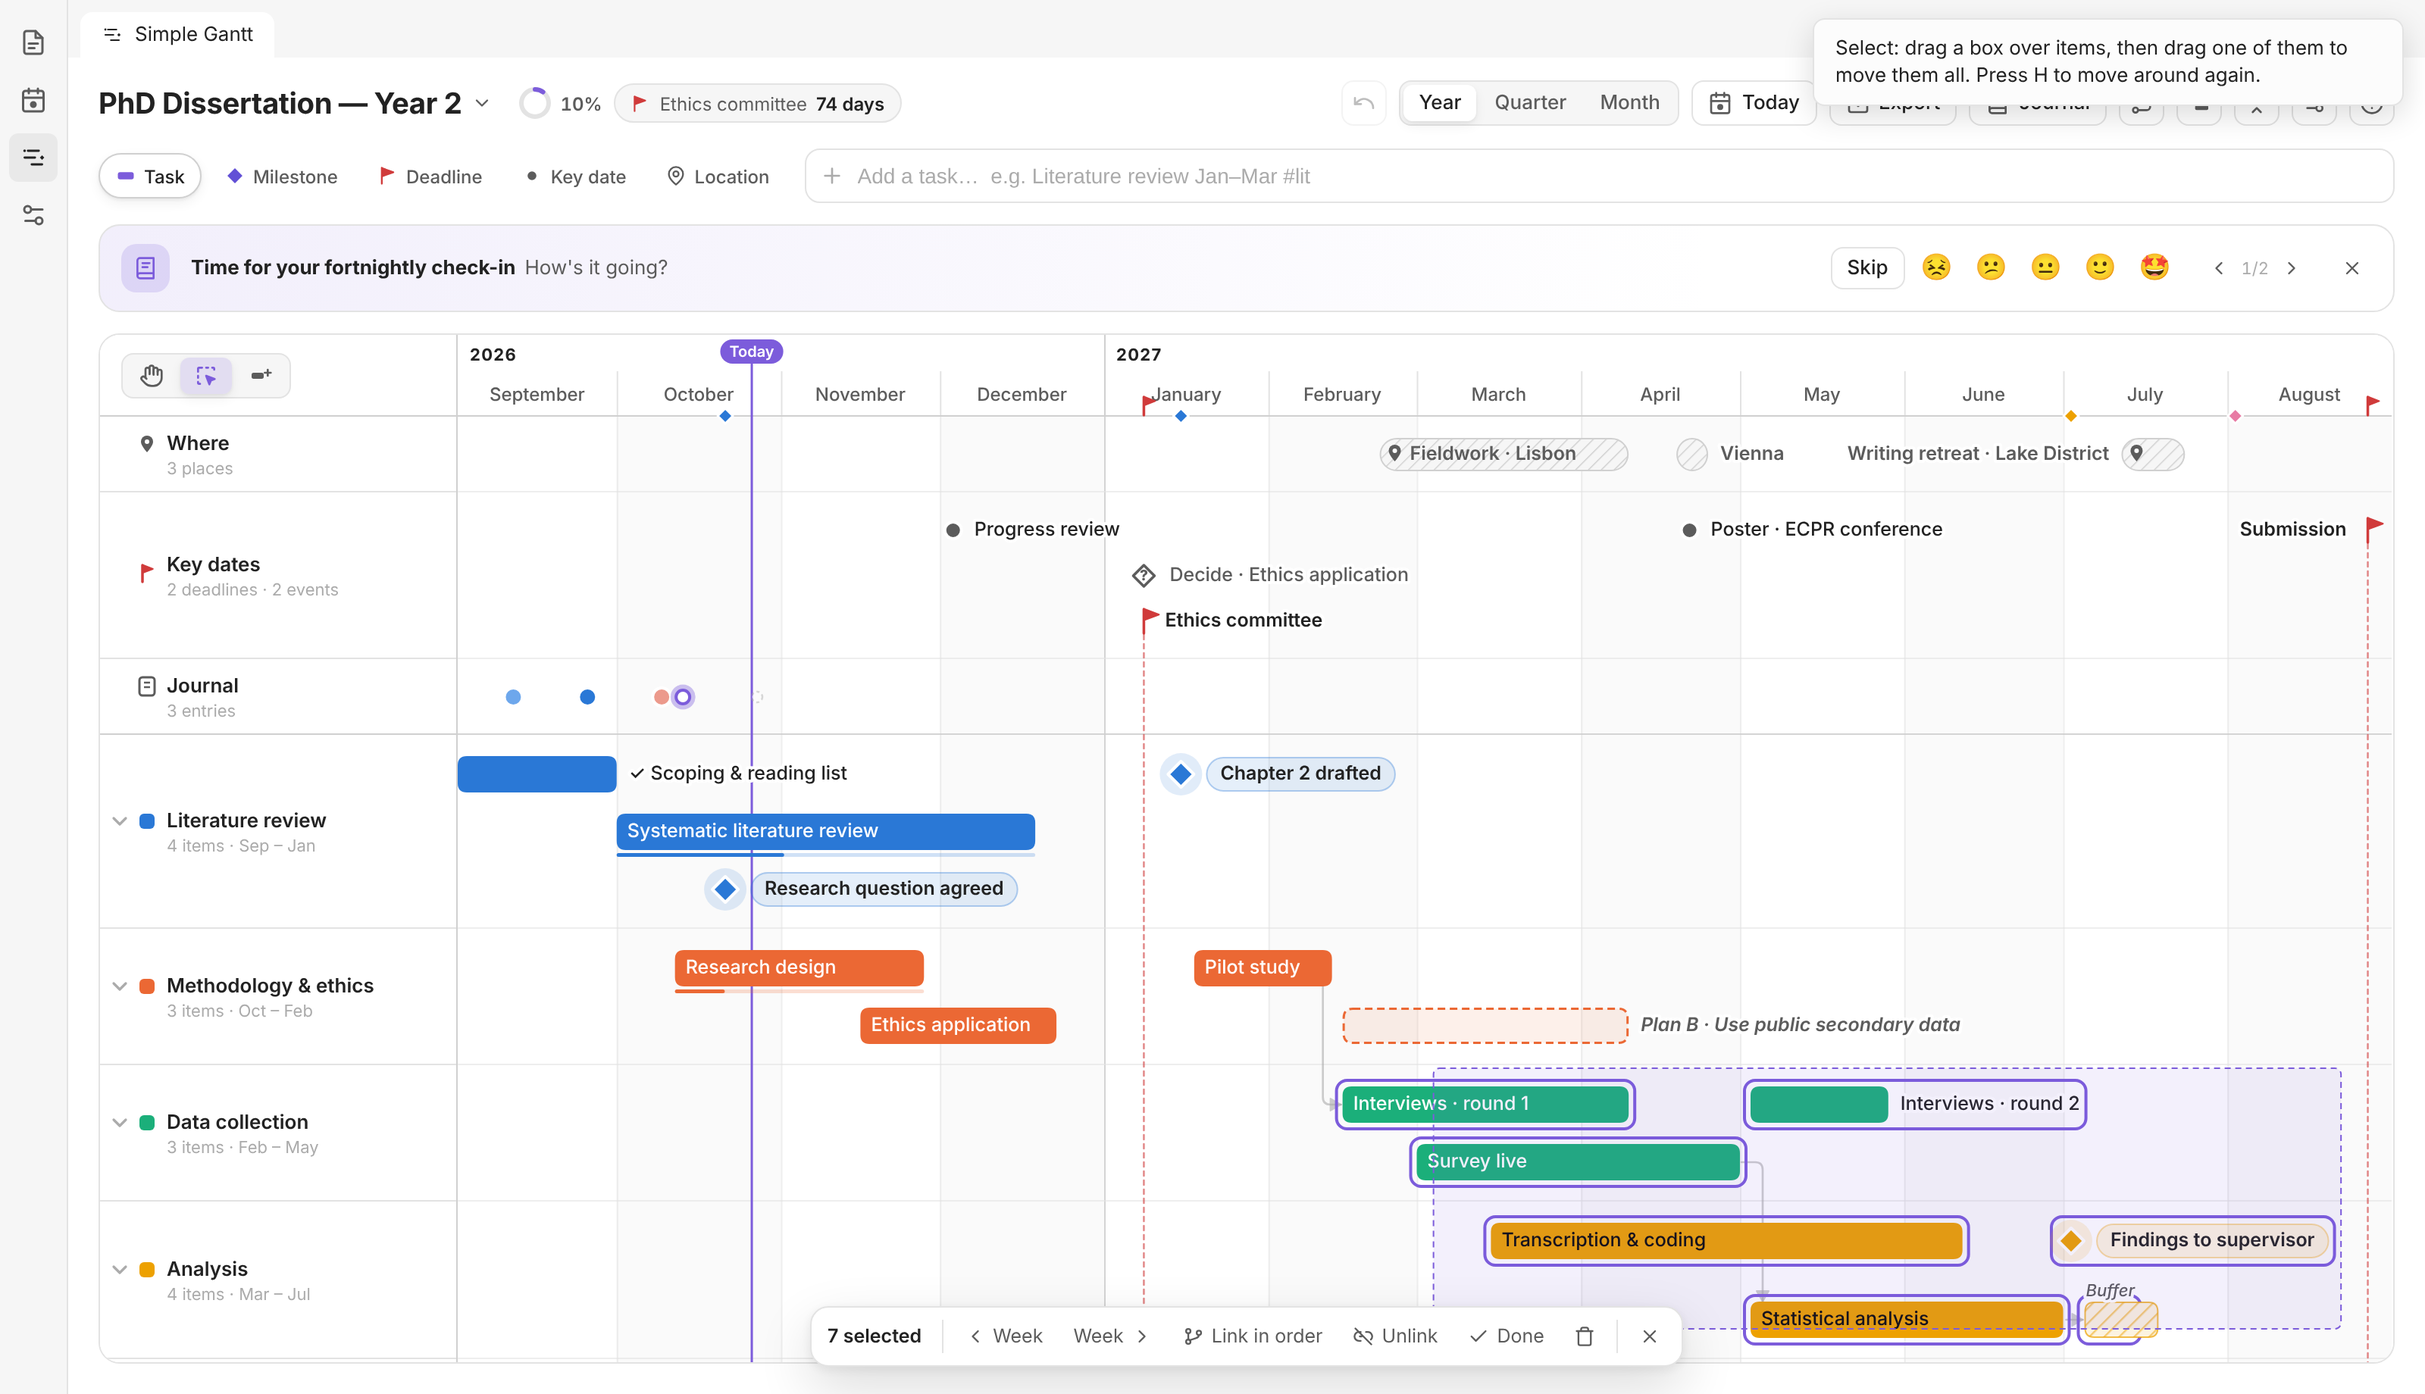
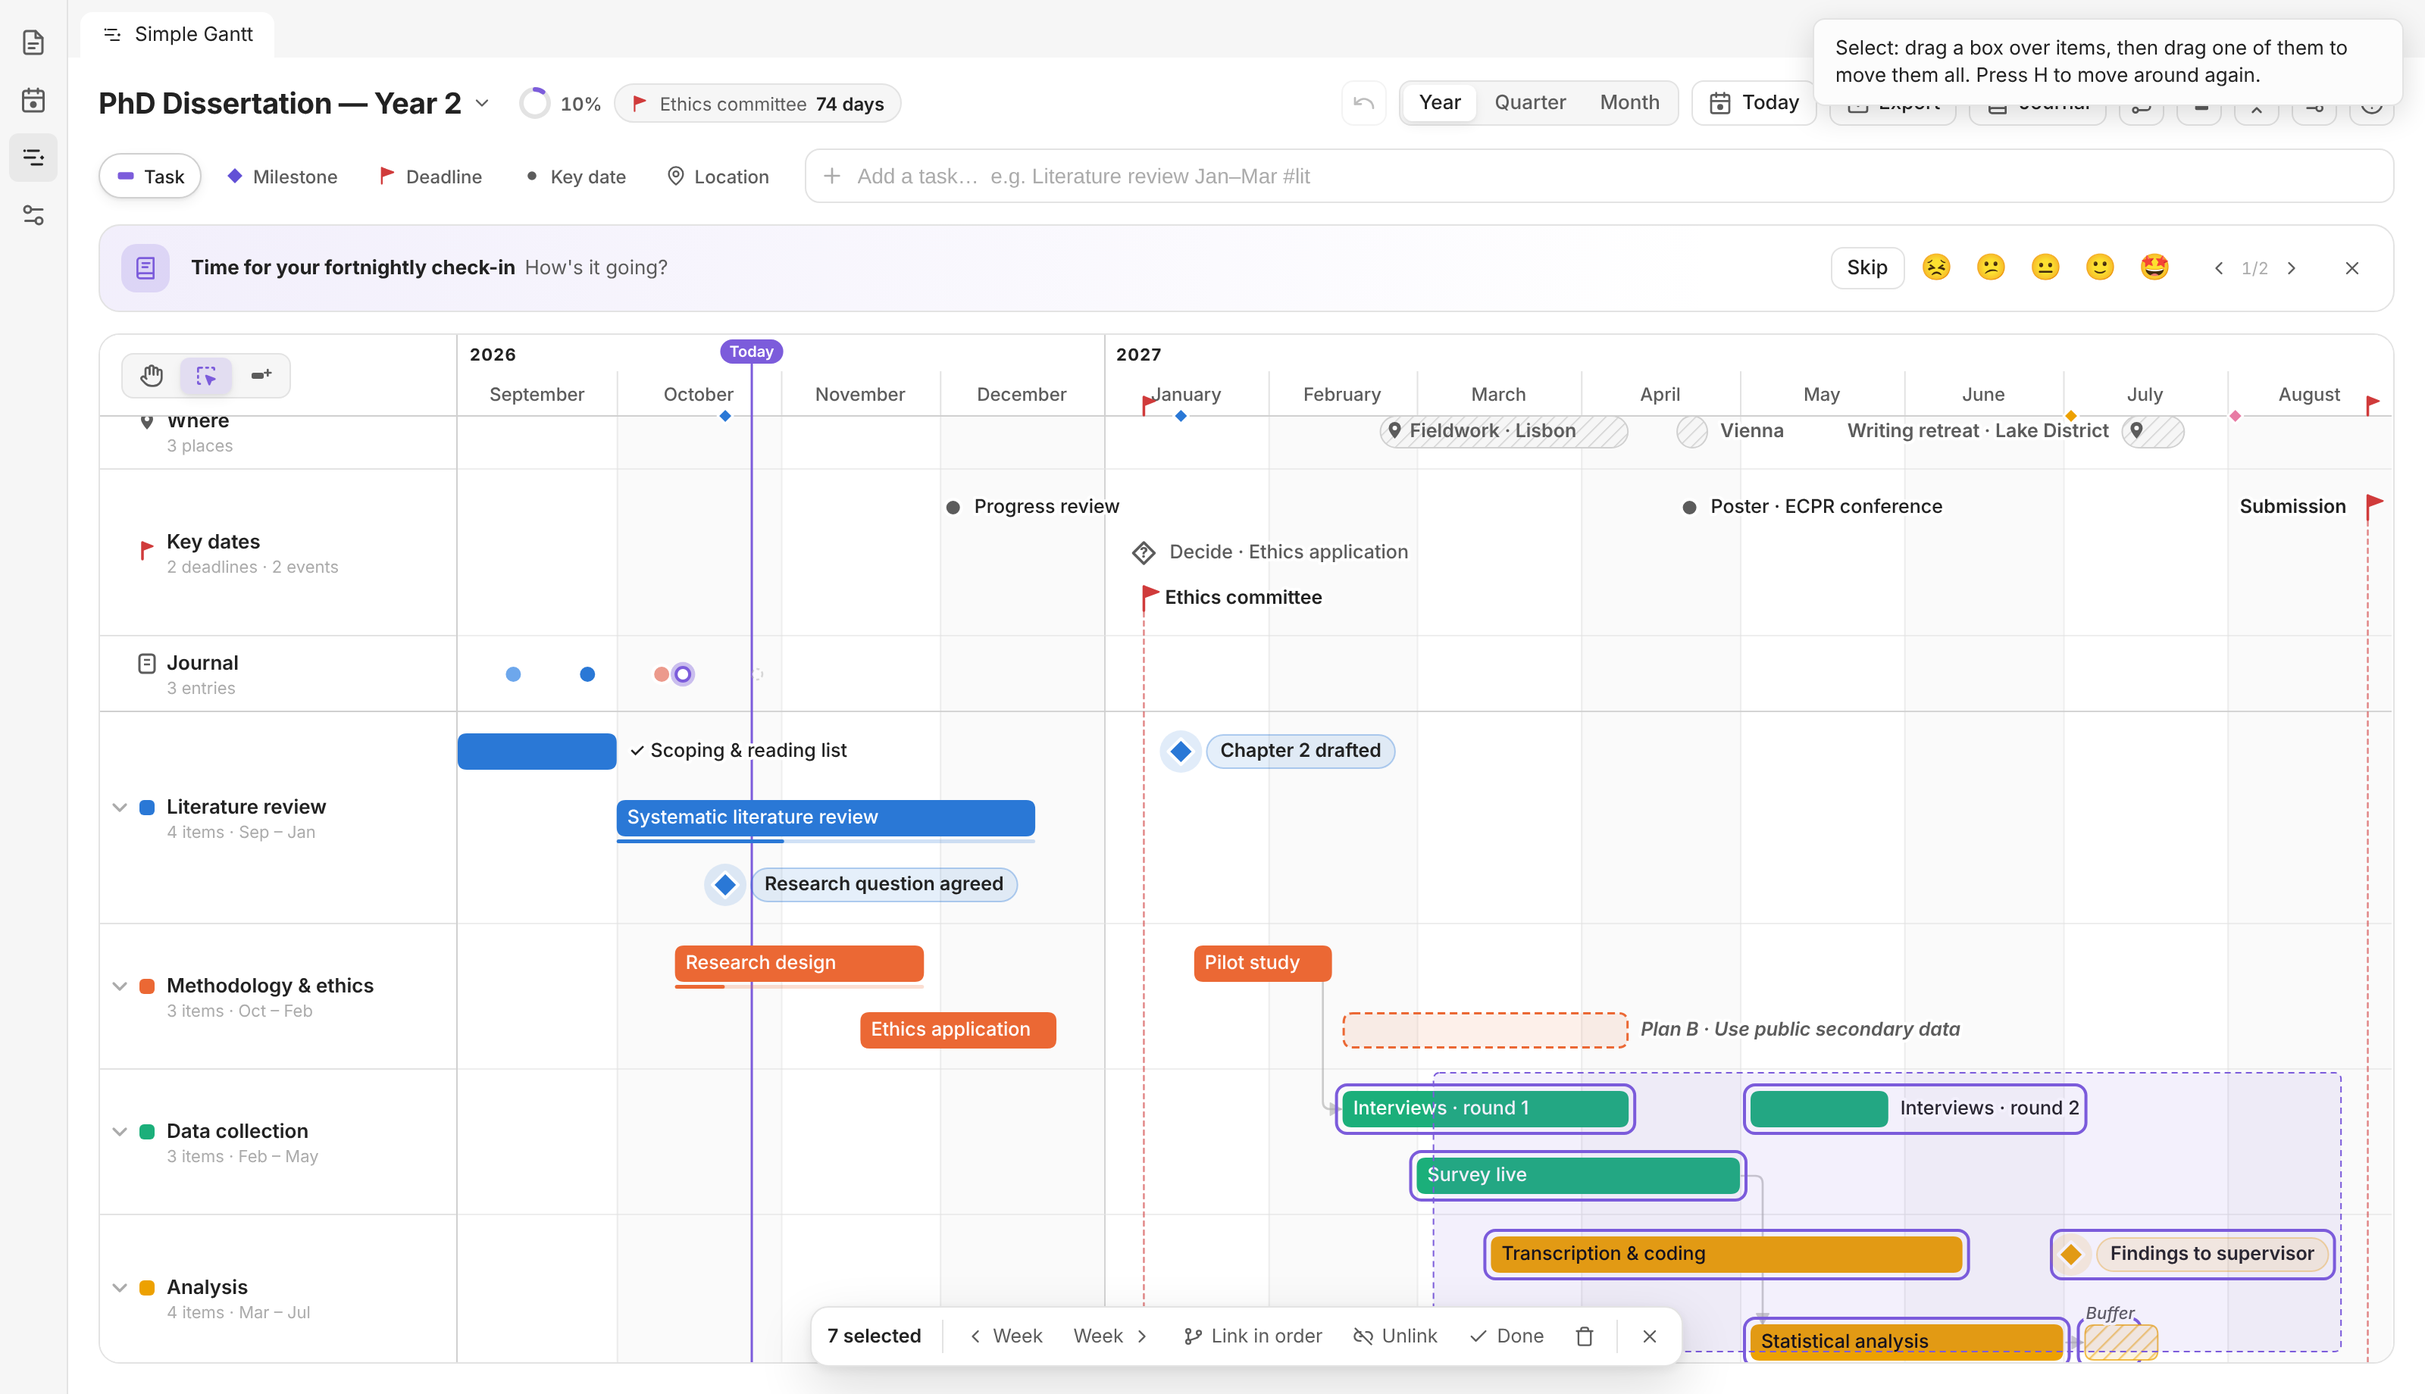
0.6.12: Roomier rows, task dates and a Today line on paper
- Paper: the rows are spaced as generously as the sheet allows (scaling the chart down at most a
  little), so the step from a task to its milestone and every arrow is easy to follow
- On screen: a little more room between rows too
- Paper: each task's dates follow its name in small grey text, buffer captions say when they are,
  and a Today line shows where the plan stands
- The year label in the date header steps aside for the Today pill

diff --git a/src/core/layout.ts b/src/core/layout.ts
@@ -8,7 +8,7 @@ export const G = {
 	yearRowH: 24,
 	monthRowH: 30,
 	weekRowH: 22,
-	rowPitch: 38,
+	rowPitch: 44,
 	barH: 24,
 	stripPitch: 30,
 	stripH: 22,
@@ -26,7 +26,7 @@ export const COMPACT: Geometry = {
 	yearRowH: 22,
 	monthRowH: 26,
 	weekRowH: 20,
-	rowPitch: 28,
+	rowPitch: 32,
 	barH: 20,
 	stripPitch: 24,
 	stripH: 18,
@@ -52,6 +52,17 @@ export const PRINT_GEOMETRY: Geometry = {
 	packGap: 8,
 	fontSize: 11.5,
 };
+
+/** Space between a label and its grey note. */
+export const NOTE_GAP = 6;
+
+/** "10 Nov – 18 Dec", "3–14 May": dates without the year (the date header shows it). */
+export function shortRange(s: number, e: number): string {
+	if (s === e) return formatDay(s, false);
+	const a = formatDay(s, false), b = formatDay(e, false);
+	const [ad, am] = a.split(" "), [bd, bm] = b.split(" ");
+	return am === bm ? `${ad}–${bd} ${bm}` : `${a} – ${b}`;
+}
 
 /** Horizontal padding inside a milestone's label badge. */
 export const MILESTONE_BADGE_PAD = 9;
@@ -125,6 +136,8 @@ export interface Placed {
 	labelX: number;
 	labelInside: boolean;
 	labelAnchor: "start" | "end";
+	/** Extra detail after the label in small grey text (on paper: a task's dates). Included in labelW. */
+	note?: string;
 	/** A buffer drawn on its task's row: the task's id. Its label sits above it. */
 	attachedTo?: string;
 	/** Ends that join another bar (a buffer and its task) are drawn square. */
@@ -319,8 +332,12 @@ export function computeLayout(project: Project, opts: LayoutOptions): Layout {
 			const label = journal || (flat && mark.kind !== "summary") ? "" : (done ? "✓ " : "") + (item.title || "Untitled") + (dated ? ` · ${formatDay(s, false)}` : "");
 			const badge = item.type === "milestone" && !!label && !print;
 			const weight = item.type === "deadline" || item.type === "location" || badge ? 600 : 500;
+			// On paper a task's dates follow its name in small grey text (there's no hovering on paper).
+			const note = print && label && mark.kind === "item" && item.type === "task" && !item.buffer ? shortRange(s, e) : "";
 			// Milestone labels sit in a tinted badge: reserve its padding.
-			const labelW = label ? opts.measure(label, weight, g.fontSize) + (badge ? MILESTONE_BADGE_PAD * 2 : 0) : 0;
+			const labelW = label
+				? opts.measure(label, weight, g.fontSize) + (badge ? MILESTONE_BADGE_PAD * 2 : 0) + (note ? NOTE_GAP + opts.measure(note, 400, g.fontSize - 1.5) : 0)
+				: 0;
 			let x0: number, x1: number, labelX: number, labelInside = false, labelAnchor: "start" | "end" = "start";
 			if (item.type === "task" || item.type === "location") {
 				x0 = xOf(s);
@@ -343,7 +360,7 @@ export function computeLayout(project: Project, opts: LayoutOptions): Layout {
 			}
 			const from = labelInside ? x0 : Math.min(x0, labelAnchor === "end" ? labelX - labelW : x0);
 			const to = labelInside ? x1 : Math.max(x1, labelAnchor === "start" ? labelX + labelW : x1);
-			return { mark, item, s, e, label, labelW, x0, x1, labelX, labelInside, labelAnchor, from, to };
+			return { mark, item, s, e, label, note, labelW, x0, x1, labelX, labelInside, labelAnchor, from, to };
 		});
 		// Buffer time sits on the row of the task it belongs to (one it overlaps, or follows within a week),
 		// joined to the bar like an extension of it, with its name above. A Plan B that runs past the end of
@@ -373,6 +390,8 @@ export function computeLayout(project: Project, opts: LayoutOptions): Layout {
 			const labelSize = g.fontSize - 1.5;
 			for (const [i, j] of hostOf) {
 				const b = pre[i], t = pre[j];
+				// On paper a buffer's caption says when it is.
+				if (print && b.label && b.mark.kind === "item") b.label = `${b.label} · ${shortRange(b.s, b.e)}`;
 				b.labelW = b.label ? opts.measure(b.label, 500, labelSize) : 0;
 				b.labelInside = false;
 				// Over the part that shows: a Plan B under its task only shows past the task's end.
@@ -463,6 +482,7 @@ export function computeLayout(project: Project, opts: LayoutOptions): Layout {
 				cy: contentTop + rowTop[rows[i]] + markH / 2,
 				color: group.phase?.color ?? (p.item.type === "location" ? null : phaseColor(p.item.phase ?? parent?.phase)),
 				label: p.label,
+				note: p.note || undefined,
 				labelW: p.labelW,
 				labelX: p.labelX,
 				labelInside: p.labelInside,

diff --git a/src/core/print.ts b/src/core/print.ts
@@ -1,5 +1,5 @@
 import { formatDay, toDay } from "./dates";
-import { COMPACT, Lane, Layout, PRINT_GEOMETRY, computeLayout } from "./layout";
+import { COMPACT, Geometry, Lane, Layout, PRINT_GEOMETRY, computeLayout } from "./layout";
 import { NS, PaintOptions, formatPeriod, makeMeasure, nest, paintBody, paintHeader, paintLabels, svgEl, text } from "./render";
 import { PRINT_THEME, Theme } from "./theme";
 import type { Project } from "./types";
@@ -30,25 +30,32 @@ export function renderPrintPages(project: Project, opts: PrintOptions = {}): SVG
 	const title1 = 50, titleN = 26;
 	const compare = !!(opts.compare && project.baseline);
 	const room = (titleH: number, headerH: number) => H - 2 * M - titleH - headerH;
-	// Roomier rows when the plan fits that way; tight print rows otherwise.
+	// Rows as roomy as the sheet allows, so the step from a bar to the next one (and its arrow) is easy to follow.
 	let layout = computeLayout(project, { pxPerDay: 1, showEmptyLanes: false, measure, density: "print", print: true });
 	const days = layout.viewEnd - layout.viewStart + 1;
-	// Slim bars with room between the rows, so the arrows between steps are easy to follow.
-	for (const geometry of [{ ...COMPACT, barH: 18, stripH: 16 }, PRINT_GEOMETRY]) {
-		layout = computeLayout(project, { pxPerDay: timelineW / days, showEmptyLanes: false, measure, geometry, print: true });
-		if (layout.bodyH <= room(title1, layout.headerH)) break;
+	const sized = (geometry: Geometry) => computeLayout(project, { pxPerDay: timelineW / days, showEmptyLanes: false, measure, geometry, print: true });
+	const base: Geometry = { ...COMPACT, barH: 17, stripH: 16, stripPitch: 24, lanePad: 6, minLaneH: 40, labelGap: 7, packGap: 10 };
+	// The chart may be scaled down a little (text stays readable) to keep the rows roomy.
+	const MIN_SCALE = 0.9;
+	const chartRoom = H - 2 * M - title1;
+	let fits = false;
+	for (let rowPitch = 48; rowPitch >= 30 && !fits; rowPitch -= 1) {
+		layout = sized({ ...base, rowPitch });
+		fits = (layout.headerH + layout.bodyH) * MIN_SCALE <= chartRoom;
 	}
-	// A plan that fits with room to spare gets airier rows, so the chart fills the sheet instead of leaving it half empty.
+	if (!fits) layout = sized(PRINT_GEOMETRY);
+	// A plan that fits with room to spare gets more padding around each phase, so the chart fills the sheet.
 	const spare = room(title1, layout.headerH) / layout.bodyH;
-	if (spare > 1.04) {
-		const f = Math.min(1.5, spare * 0.99);
+	if (fits && spare > 1.04) {
 		const g = layout.g;
-		const geometry = { ...g, rowPitch: g.rowPitch * f, stripPitch: g.stripPitch * f, lanePad: g.lanePad * f, minLaneH: g.minLaneH * f };
-		layout = computeLayout(project, { pxPerDay: timelineW / days, showEmptyLanes: false, measure, geometry, print: true });
+		const f = Math.min(2.5, 1 + (spare - 1) * (layout.bodyH / layout.lanes.reduce((n, l) => n + 2 * g.lanePad, 1)));
+		const roomier = sized({ ...g, lanePad: g.lanePad * f, minLaneH: g.minLaneH * Math.min(f, 1.4) });
+		if (roomier.bodyH <= room(title1, layout.headerH)) layout = roomier;
 	}
-	const paint: PaintOptions = { theme, measure, interactive: false, print: true, today: null, plan: compare ? project.baseline : null };
+	// The Today line shows where the plan stands on the day it's printed.
+	const paint: PaintOptions = { theme, measure, interactive: false, print: true, today: opts.today ?? null, plan: compare ? project.baseline : null };
 	// A little too tall still fits on one sheet, slightly smaller; only much longer plans continue on a second page.
-	const SHRINK = 0.8;
+	const SHRINK = 0.85;
 
 	// Split the rows into pages: the deadlines (Key dates) row on every page, then as many lanes as fit.
 	const pages: Lane[][] = [];

diff --git a/src/core/render.ts b/src/core/render.ts
@@ -1,5 +1,5 @@
 import { MONTHS_LONG, MONTHS_SHORT, dayFromYmd, formatDay, monthEnd, toDay, weekday, ymd } from "./dates";
-import { Lane, Layout, MILESTONE_BADGE_PAD, Measure, Placed, computeLayout } from "./layout";
+import { Lane, Layout, MILESTONE_BADGE_PAD, Measure, NOTE_GAP, Placed, computeLayout } from "./layout";
 import { PRINT_THEME, Theme, inkOnFill } from "./theme";
 import { earliestAfter } from "./links";
 import { Mood, Project, isDone, isRangeType } from "./types";
@@ -123,6 +123,9 @@ export function paintHeader(layout: Layout, o: PaintOptions): SVGSVGElement {
 	// Year segments; the label sticks to the left edge of the visible part of its year.
 	const [y0] = ymd(layout.viewStart);
 	const [y1] = ymd(layout.viewEnd);
+	// Where the Today pill sits, so a year label can step aside for it.
+	const todayX = o.today != null && o.today >= layout.viewStart && o.today <= layout.viewEnd ? layout.xOf(o.today) + layout.pxPerDay / 2 : null;
+	const pillW = o.measure("Today", 600, 10) + 12;
 	for (let year = y0; year <= y1; year++) {
 		const from = Math.max(layout.viewStart, dayFromYmd(year, 0, 1));
 		const to = Math.min(layout.viewEnd + 1, dayFromYmd(year + 1, 0, 1));
@@ -130,8 +133,12 @@ export function paintHeader(layout: Layout, o: PaintOptions): SVGSVGElement {
 		const xEnd = layout.xOf(to);
 		if (year !== y0) svgEl("line", { x1: x + 0.5, x2: x + 0.5, y1: 0, y2: layout.headerH, stroke: theme.axis }, svg);
 		const tw = o.measure(String(year), 700, 11) + 4;
-		const lx = Math.min(Math.max(x, v0) + 8, xEnd - tw - 8);
-		text(svg, Math.max(x + 8, lx), layout.g.yearRowH / 2 + 1, String(year), {
+		let lx = Math.max(x + 8, Math.min(Math.max(x, v0) + 8, xEnd - tw - 8));
+		if (todayX !== null && lx < todayX + pillW / 2 + 4 && lx + tw > todayX - pillW / 2 - 4) {
+			const after = todayX + pillW / 2 + 6;
+			if (after + tw < xEnd - 4) lx = after;
+		}
+		text(svg, lx, layout.g.yearRowH / 2 + 1, String(year), {
 			fill: theme.ink, "font-size": 11, "font-weight": 700, "letter-spacing": "0.06em",
 		});
 	}
@@ -468,9 +475,16 @@ function paintItem(parent: Element, p: Placed, layout: Layout, o: PaintOptions, 
 			svgEl("rect", { x: p.x0, y: ty, width: w, height: 2.5, rx: 1.25, fill: color, opacity: 0.22, "pointer-events": "none" }, g);
 			svgEl("rect", { x: p.x0, y: ty, width: (w * prog) / 100, height: 2.5, rx: 1.25, fill: color, "pointer-events": "none" }, g);
 		}
-		text(g, p.labelX, p.cy, p.label, {
+		const t = text(g, p.labelX, p.cy, p.label, {
 			...labelAttrs, ...(p.labelInside ? {} : halo(theme)), fill: p.labelInside ? (p.color ? inkOnFill(p.color) : "#ffffff") : theme.ink,
 		});
+		if (p.note) {
+			const n = svgEl("tspan", {
+				dx: NOTE_GAP, "font-size": layout.g.fontSize - 1.5, "font-weight": 400,
+				fill: p.labelInside ? (p.color ? inkOnFill(p.color) : "#ffffff") : theme.inkMuted, "fill-opacity": p.labelInside ? 0.8 : 1,
+			}, t);
+			n.textContent = p.note;
+		}
 		if (o.interactive && w >= 14) {
 			const hw = Math.min(8, w / 3);
 			svgEl("rect", { x: p.x0 - 2, y: top, width: hw + 2, height: layout.g.barH, fill: "transparent", class: "sg-handle", "data-part": "start" }, g);

diff --git a/dev/integration.ts b/dev/integration.ts
@@ -524,6 +524,11 @@ function check(cond: unknown, msg: string) {
 		const bends = (key: string) => (sheetA.querySelector(`.sg-link[data-link="${key}"] .sg-link-line`)?.getAttribute("d")?.match(/Q/g) ?? []).length;
 		const drawn = ["e1 em", "rd fd", "fd rv", "rv pf"].filter((k) => sheetA.querySelector(`.sg-link[data-link="${k}"]`));
 		check(drawn.length === 4 && bends("e1 em") === 0 && bends("fd rv") === 0, "an arrow to a step that starts under the previous one drops straight down");
+		const dropLen = (() => {
+			const nums = (sheetA.querySelector('.sg-link[data-link="e1 em"] .sg-link-line')?.getAttribute("d") ?? "").match(/-?[\d.]+/g)?.map(Number) ?? [];
+			return nums.length >= 4 ? Math.abs(nums[3] - nums[1]) : 0;
+		})();
+		check(dropLen >= 18, `rows on paper leave room for a readable arrow between a task and its milestone (${Math.round(dropLen)}px)`);
 		check(bends("rd fd") <= 1 && bends("rv pf") <= 1, `an arrow to a step that starts further out leaves from the side, then goes down (${bends("rd fd")}, ${bends("rv pf")} bends)`);
 		log.push(`notices: ${JSON.stringify(notices)}`);
 		(window as any).__note = await app.vault.read(file);

diff --git a/README.md b/README.md
@@ -85,7 +85,7 @@ The overview panel shows your next deadline, what's on now and what's coming up.
 ![The overview panel in the sidebar](https://raw.githubusercontent.com/Nexziz/simple-gantt/main/docs/gifs/sidebar.gif)
 
 ### Print it on A4
-**Export → PDF for printing** makes a print-ready A4 landscape PDF and opens it. It's kept as plain as possible: deadlines in red in one row at the top, each with a line through the whole chart; milestones as bold diamonds with their dates; and no legend or summaries, because the picture explains itself. The rows spread out to fill the sheet, and a long plan continues on a second page with the dates and deadlines repeated.
+**Export → PDF for printing** makes a print-ready A4 landscape PDF and opens it. It's kept as plain as possible: deadlines in red in one row at the top, each with a line through the whole chart; milestones as bold diamonds with their dates; each task's dates in small grey text after its name; a Today line; and no legend or summaries, because the picture explains itself. Rows are spaced as generously as the sheet allows, so every arrow is easy to follow. The rows spread out to fill the sheet, and a long plan continues on a second page with the dates and deadlines repeated.
 
 ![An A4 landscape printout](https://raw.githubusercontent.com/Nexziz/simple-gantt/main/docs/images/24-print-a4.png)
 
